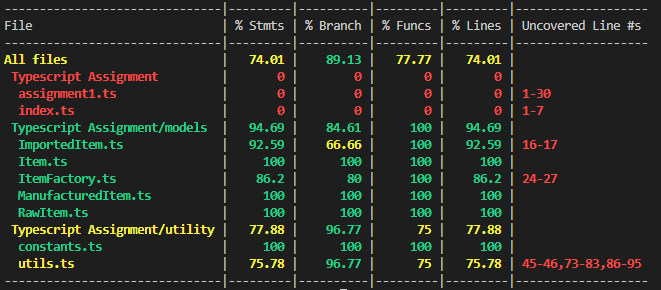
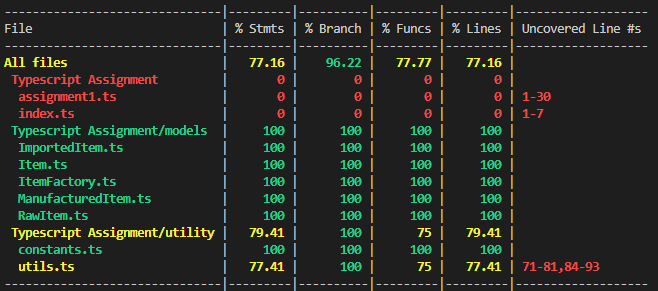
test coverage increased

Changed region(s): [[0.0, 0.0, 0.9726, 1.0]]

diff --git a/tests/utility/utils.test.ts b/tests/utility/utils.test.ts
@@ -4,6 +4,11 @@ import { mapInputDetails, processUserInput, itemDetailsValidationFunctions } fro
 import { RawItem } from '../../models/RawItem';
 import { ImportedItem } from '../../models/ImportedItem';
 import { ManufacturedItem } from '../../models/ManufacturedItem';
+import { forEachChild } from 'typescript';
+
+
+
+
 test("Testing Validate Name", () => {
     expect(itemDetailsValidationFunctions["name"]("ashwath")).toBe("Ashwath");
     expect(itemDetailsValidationFunctions["name"]("ash")).toBe("Ash");
@@ -12,10 +17,16 @@ test("Testing Validate Name", () => {
     expect(itemDetailsValidationFunctions["name"]("Bcq HR")).toBe("Bcq hr");
 })
 
-test.fails('name validation fail', () => {
-    expect(itemDetailsValidationFunctions["name"]("as")).toThrowError();
-    expect(itemDetailsValidationFunctions["name"]("ashwathashwathashwath")).toThrowError(Error("Please enter a valid name (Expected characters in range 3-20)"));
-})
+test('name validation fail', () => {
+    let testCases:any = [
+        "as",
+        "ashwathashwathashwath",
+    ];
+
+    testCases.forEach((testcase:any)=>{
+        expect(()=>itemDetailsValidationFunctions["name"](testcase)).toThrowError();
+    });
+});
 
 test("Testing Validate Price", () => {
     expect(itemDetailsValidationFunctions["price"]("1")).toBe(1);
@@ -28,13 +39,19 @@ test("Testing Validate Price", () => {
     expect(itemDetailsValidationFunctions["price"]("0.001")).toBe(0.001);
 })
 
-test.fails('price validation fail', () => {
-    expect(itemDetailsValidationFunctions["price"]("abc")).toThrowError();
-    expect(itemDetailsValidationFunctions["price"]("100000000000000")).toThrowError();
-    expect(itemDetailsValidationFunctions["price"]("1fg")).toThrowError();
-    expect(itemDetailsValidationFunctions["price"]("-0.001")).toThrowError();
-    expect(itemDetailsValidationFunctions["price"]("-100")).toThrowError();
-    expect(itemDetailsValidationFunctions["price"]("0")).toThrowError();
+test('price validation fail', () => {
+    let testCases:any = [
+        "abc",
+        "100000000000000",
+        "1fg",
+        "-0.001",
+        "-100",
+        "0",
+    ];
+
+    testCases.forEach((testcase:any)=>{
+        expect(()=>itemDetailsValidationFunctions["price"](testcase)).toThrowError();
+    });
 })
 
 test('Testing validate Quantity', () => {
@@ -43,13 +60,19 @@ test('Testing validate Quantity', () => {
     expect(itemDetailsValidationFunctions["quantity"]("100")).toBe(100);
 })
 
-test.fails('quality validation fail', () => {
-    expect(itemDetailsValidationFunctions["quantity"]("-10")).toThrowError();
-    expect(itemDetailsValidationFunctions["quantity"]("10.5")).toThrowError();
-    expect(itemDetailsValidationFunctions["quantity"]("1.5")).toThrowError();
-    expect(itemDetailsValidationFunctions["quantity"]("101")).toThrowError();
-    expect(itemDetailsValidationFunctions["quantity"]("1000")).toThrowError();
-    expect(itemDetailsValidationFunctions["quantity"]("0")).toThrowError();
+test('quality validation fail', () => {
+    let testCases:any = [
+        "10.99",
+        "-10",
+        "0",
+        "100.1",
+        "0.5"
+    ];
+
+    testCases.forEach((testcase:any)=>{
+        expect(()=>itemDetailsValidationFunctions["quantity"](testcase)).toThrowError();
+    });
+ 
 })
 
 test('Testing validate type', () => {
@@ -58,12 +81,18 @@ test('Testing validate type', () => {
     expect(itemDetailsValidationFunctions["type"]("imported")).toBe("imported");
 })
 
-test.fails('type validation fail', () => {
-    expect(itemDetailsValidationFunctions["type"]('abc')).toThrowError();
-    expect(itemDetailsValidationFunctions["type"]('manufactree')).toThrowError();
-    expect(itemDetailsValidationFunctions["type"]('important')).toThrowError();
-    expect(itemDetailsValidationFunctions["type"](' ')).toThrowError();
-    expect(itemDetailsValidationFunctions["type"]('')).toThrowError();
+test('type validation fail', () => {
+    let testCases:any = [
+        "abc",
+        "manufactree",
+        "importad",
+        ' ',
+        "",
+    ];
+
+    testCases.forEach((testcase:any)=>{
+        expect(()=>itemDetailsValidationFunctions["type"](testcase)).toThrowError();
+    });
 })
 
 test('map input details', () => {
@@ -71,12 +100,12 @@ test('map input details', () => {
     expect(mapInputDetails(['-name', 'tea', '-price', '245', '-type', 'manufactured', '-quantity', '12'])).toStrictEqual(new Map<string, any>([['name', 'Tea'], ['price', 245], ['type', 'manufactured'], ['quantity', 12]]));
 })
 
-test.fails('map input details fails', () => {
-    expect(mapInputDetails(['-name', '-price', '-type', '-quantity', 'itemName', '100', 'raw'])).toThrowError();
-    expect(mapInputDetails(['-price', '-name', '-type', '-quantity', 'itemName', '100', 'raw'])).toThrowError();
-    expect(mapInputDetails(['-name', '-price', '-type', '-quantity', 'itemName', '100', 'raw', 'asdf', '90'])).toThrowError();
-    expect(mapInputDetails(['-name', '-price', '-type', '-quantity', '-itemName', '-100', 'raw', '90'])).toThrowError();
-    expect(mapInputDetails(['-name', '-price', '-type', '-quantity', 'itemName', '100', 'raw', '90'])).toThrowError();
+test('map input details fails', () => {
+    expect(()=>mapInputDetails(['-name', '-price', '-type', '-quantity', 'itemName', '100', 'raw'])).toThrow();
+    expect(()=>mapInputDetails(['-price', '-name', '-type', '-quantity', 'itemName', '100', 'raw'])).toThrow();
+    expect(()=>mapInputDetails(['-name', '-price', '-type', '-quantity', 'itemName', '100', 'raw', 'asdf', '90'])).toThrow();
+    expect(()=>mapInputDetails(['-name', '-price', '-type', '-quantity', '-itemName', '-100', 'raw', '90'])).toThrow();
+    expect(()=>mapInputDetails(['-name', '-price', '-type', '-quantity', 'itemName', '100', 'raw', '90'])).toThrow();
 })
 
 test('process user input', () => {
@@ -87,10 +116,16 @@ test('process user input', () => {
     expect(processUserInput("  -name box -price 10       -quantity 500 -type raw")).toStrictEqual(new Map<string, any>([['name', 'Box'], ['price', 10], ['quantity', 500], ['type', 'raw']]));
 })
 
-test.fails('process user input fails', () => {
-    expect(processUserInput("-price ash 10 -quantity 100 -type raw")).toThrowError();
-    expect(processUserInput("-name item1 -price ash 10 -quantity 100 -type raw")).toThrowError();
-    expect(processUserInput("-price item 1 10 -quantity 100 -type raw")).toThrowError();
+test('process user input fails', () => {
+    let testCases:any = [
+        "-price ash 10 -quantity 100 -type raw",
+        "-name item1 -price ash 10 -quantity 100 -type raw",
+        "-price item 1 10 -quantity 100 -type raw"
+    ];
+
+    testCases.forEach((testcase:any)=>{
+        expect(()=>processUserInput(testcase)).toThrowError();
+    });
 })
 
 test('Create Item', () => {
@@ -102,17 +137,27 @@ test('Create Item', () => {
     value.calculateSalesTax();
     expect(ItemFactory.createItem(new Map<string, any>([["name", "Item1"], ["price", 20], ["quantity", 50], ["type", "imported"]]))).toStrictEqual(value);
 
+    value = new ImportedItem("Item1", 100, 1000);
+    value.calculateSalesTax();
+    expect(ItemFactory.createItem(new Map<string, any>([["name", "Item1"], ["price", 100], ["quantity", 1000], ["type", "imported"]]))).toStrictEqual(value);
+
+    value = new ImportedItem("Item1", 20000, 10);
+    value.calculateSalesTax();
+    expect(ItemFactory.createItem(new Map<string, any>([["name", "Item1"], ["price", 20000], ["quantity", 10], ["type", "imported"]]))).toStrictEqual(value);
+
     value = new ManufacturedItem("Football", 200, 25);
     value.calculateSalesTax();
     expect(ItemFactory.createItem(new Map<string, any>([["name", "Football"], ["price", 200], ["quantity", 25], ["type", "manufactured"]]))).toStrictEqual(value);
-
 })
 
-test.fails('Create item fails', () => {
-    expect(ItemFactory.createItem(new Map<string, string>([["name", "football"], ["price", "200"], ["quantity", "125"], ["type", "manufactured"]]))).toThrowError();
-    expect(ItemFactory.createItem(new Map<string, string>([["name", "item2"], ["price", "200"], ["quantity", "125"], ["type", "manufacture"]]))).toThrowError();
-    expect(ItemFactory.createItem(new Map<string, string>([["name", "item3"], ["price", "200"], ["quantity", "125"], ["type", "raw"]]))).toThrowError();
-    expect(ItemFactory.createItem(new Map<string, string>([["name", " "], ["price", "200"], ["quantity", "125"], ["type", "raw"]]))).toThrowError();
-    expect(ItemFactory.createItem(new Map<string, string>([["name", " "], ["price", "abc"], ["quantity", "125"], ["type", "raw"]]))).toThrowError();
-    expect(ItemFactory.createItem(new Map<string, string>([["name", " "], ["price", "abc"], ["quantity", "avg"], ["type", "imported"]]))).toThrowError();
+test('Create item fails', () => {
+    let testCases:any = [
+        new Map<string, string>([["name", "item2"], ["price", "200"], ["quantity", "125"], ["type", "manufacture"]]),
+    ];
+
+    testCases.forEach((testcase:any)=>{
+        console.log(testcase);
+        expect(()=>ItemFactory.createItem(testcase)).toThrowError();
+    });
+
 })

diff --git a/utility/utils.ts b/utility/utils.ts
@@ -36,29 +36,23 @@ export const itemDetailsValidationFunctions: any = {
 
 export function mapInputDetails(input: string[]) {
     let item = new Map<string, string>();
-    try {
-        if (input.length != 8 || input[0] != "-name") {
-            throw new Error("Kindly enter all arguments correctly. -name must be entered first");
+    if (input.length != 8 || input[0] != "-name") {
+        throw new Error("Kindly enter all arguments correctly. -name must be entered first");
+    }
+    for (let i = 0; i < 8; i += 2) {
+        if (input[i][0] == '-') {
+            item.set(input[i].slice(1), input[i + 1]);
         }
-        for (let i = 0; i < 8; i += 2) {
-            if (input[i][0] == '-') {
-                item.set(input[i].slice(1), input[i + 1]);
-            }
-        }
-        if (item.size != 4) {
-            throw new Error('Kindly enter all details in correct format!');
-        }
+    }
+    if (item.size != 4) {
+        throw new Error('Kindly enter all details in correct format!');
+    }
 
-        for (let [key, value] of item) {
-            value = itemDetailsValidationFunctions[key](value);
-            item.set(key, value);
-        }
-        return item;
+    for (let [key, value] of item) {
+        value = itemDetailsValidationFunctions[key](value);
+        item.set(key, value);
     }
-    catch (error: any) {
-        console.log(error.message);
-        return;
-    }
+    return item;
 }
 
 export function processUserInput(inputValues: string) {

diff --git a/models/ItemFactory.ts b/models/ItemFactory.ts
@@ -17,13 +17,15 @@ export class ItemFactory {
                 case 'imported':
                     item = new ImportedItem(userInput.get('name'), userInput.get('price'), userInput.get('quantity'));
                     break;
+                default:
+                    throw new Error('Type doesn\'t match');
             }
             item.calculateSalesTax();
             return item;
         }
         catch (error: any) {
             console.log(error.message);
-            return;
+            throw error;
         }
     }
 }
